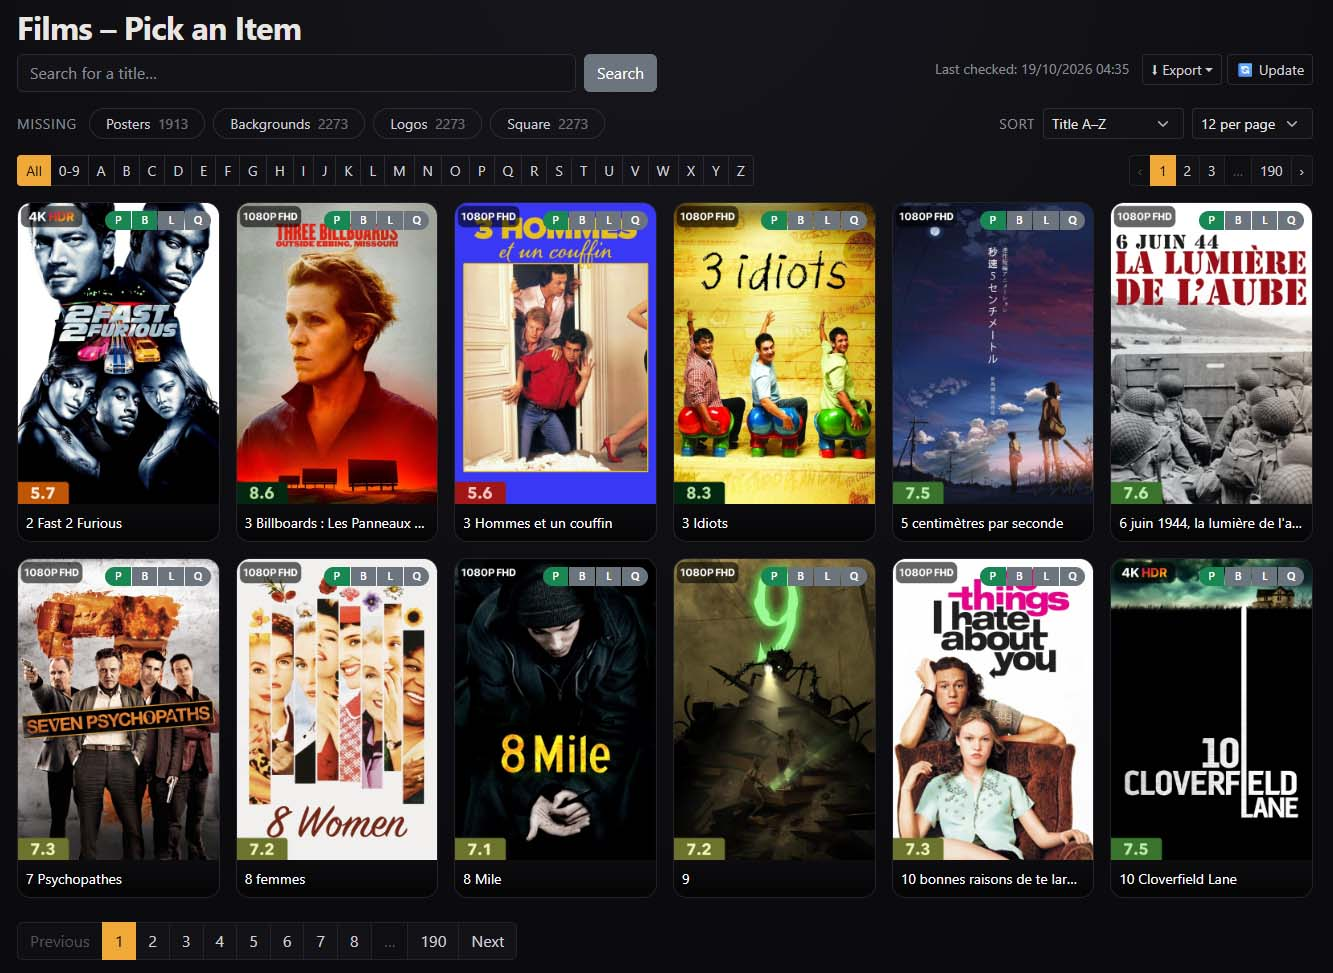
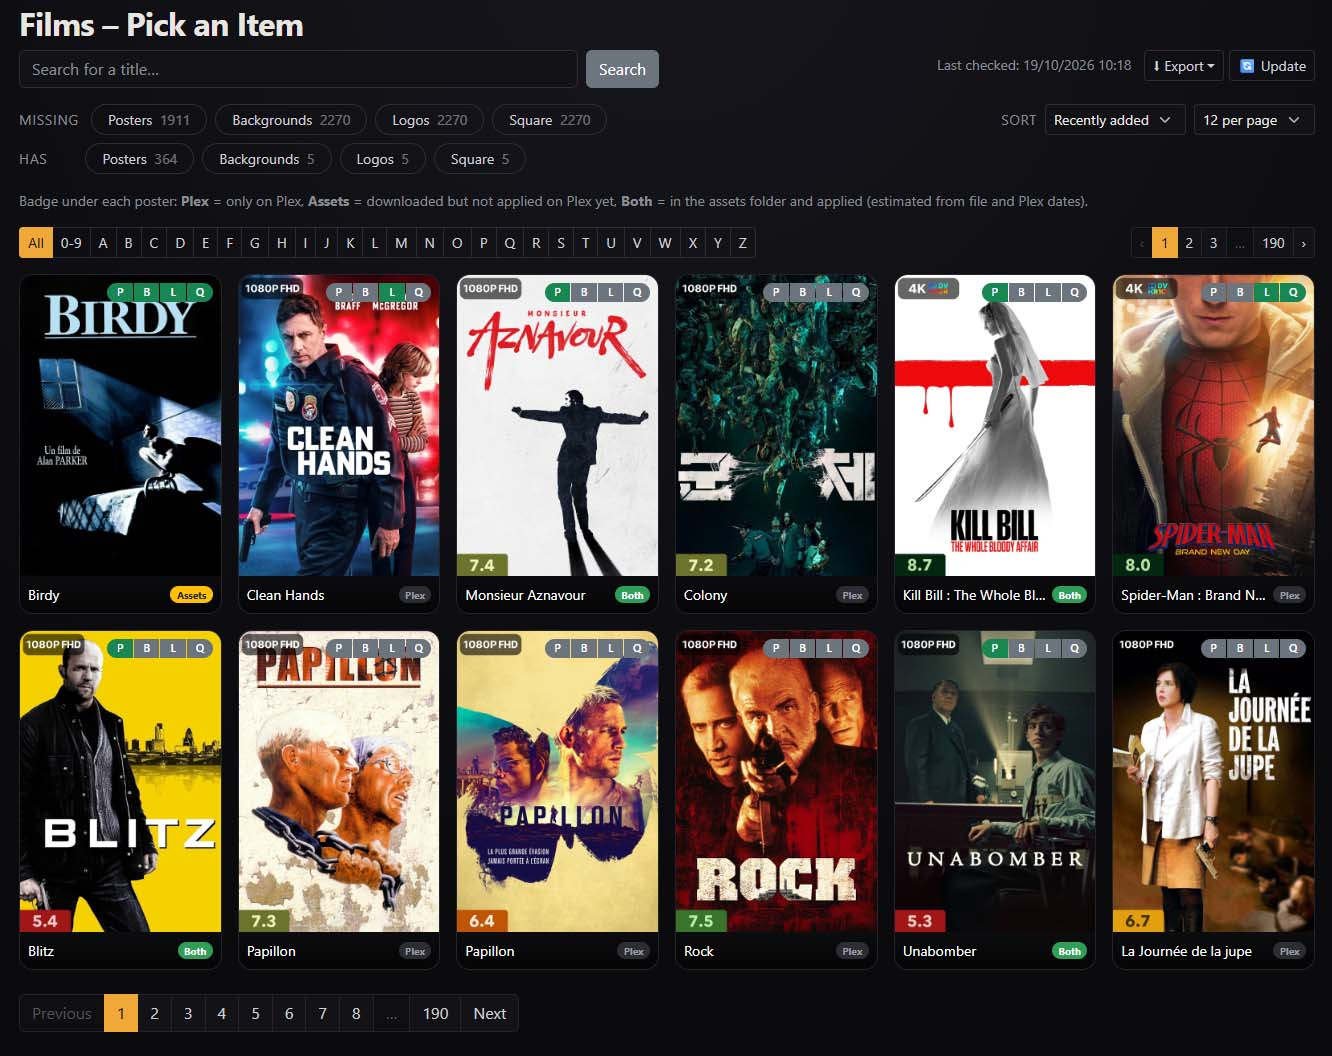
docs: update README and screenshots

diff --git a/README.md b/README.md
@@ -95,12 +95,13 @@ The connection page should be filled in automatically if you completed the `.env
 ![](images/connect.jpg)
 
 After that you'll access the dashboard with every library of your Plex server. To begin with, I recommend you click the update button, especially if you already have some files in the assets directory.
-Then you can click on any library you want:
 
 ![](images/libraries-dashboard.jpg)
 
 The dashboard numbers (library bars and rings) also move by themselves right after you download, upload or paste an image: the new file is counted at once, without waiting for **Update**. **Update** is still what picks up titles added to or removed from Plex, and changes made in the assets folder by something else (Kometa, a manual copy…).
 
+
+Then you can click on any library you want:
 You'll see a grid displaying all the movies of that library.
 You also get a visual indication of whether a movie already has a poster/background selected in the Kometa assets directory.
 
@@ -118,7 +119,9 @@ If you click on a movie, you'll see a grid displaying all the posters available 
 
 ![](images/movies-posters.jpg)
 
-Above the images, a panel shows side by side what Plex currently shows and what is in the assets folder for the image you are browsing (show, season or episode level), with the file name and date, and the same Plex / Assets / Both status. For logos and square, Plex gives no date, so the panel only tells whether a file exists in the assets folder.
+Above the images, since [**v2.6.0**](https://github.com/Minimaxpower/ArtLayerr/releases#release-v2.6.0), a panel shows side by side what Plex currently shows and what is in the assets folder for the image you are browsing (show, season or episode level), with the file name and date, and the same Plex / Assets / Both status. For logos and square, Plex gives no date, so the panel only tells whether a file exists in the assets folder.
+
+![](images/plex-vs-assets.jpg)
 
 You can choose to view backgrounds instead of posters:
 
